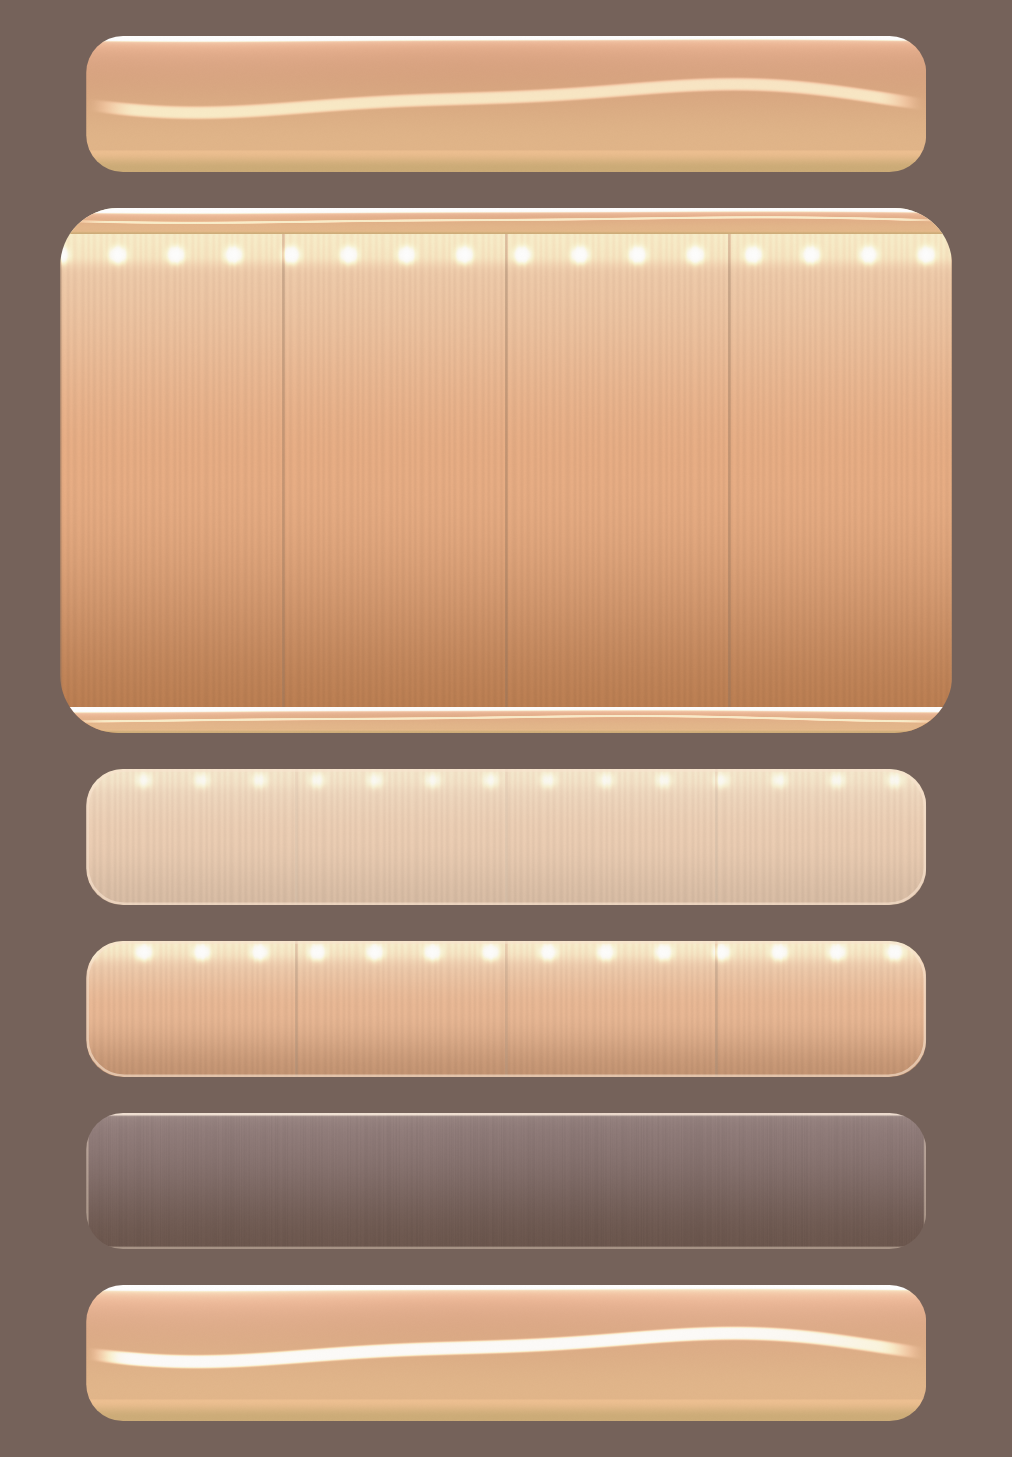
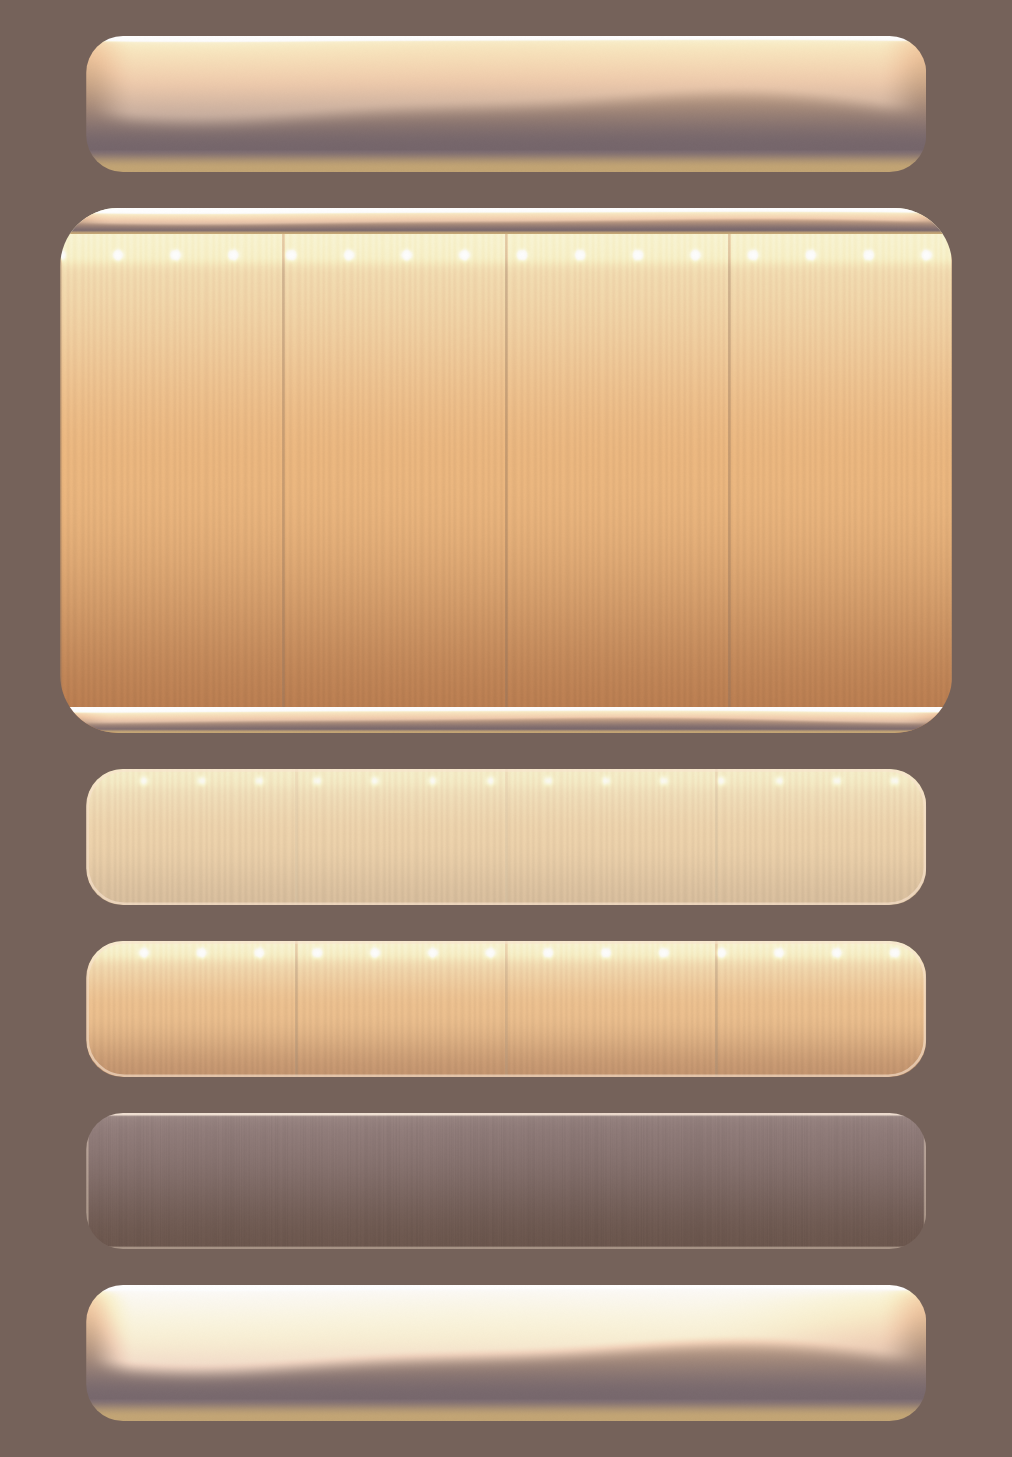
Kinu v2: 背景を外装だけ(帯の重なりとサテンの面)に、金の帯のグラデーション・窓の色を見本に寄せる
Claude-Session: https://claude.ai/code/session_01EQFTQg9fP95wRPnruyYC8J

Changed region(s): [[0.0613, 0.0, 0.919, 0.1853], [0.0613, 0.8648, 0.919, 0.9883], [0.0919, 0.4633, 0.919, 0.5251]]

diff --git a/app/src/main/java/com/example/businesscard/ui/kinu/KinuShaders.kt b/app/src/main/java/com/example/businesscard/ui/kinu/KinuShaders.kt
@@ -33,7 +33,7 @@ const float PI = 3.14159265;
 // ---- 帯の領域(画面の上端・下端から各 16%) ----
 const float ZONE = 0.16;
 const float LAYERS = 4.0;        // 帯の段数(ループは 4 回)
-const float BAND_FRAC = 0.72;    // 帯の高さ / 段の間隔
+const float BAND_FRAC = 0.55;    // 帯の高さ / 段の間隔(残りが窓のすき間)
 const float FADE_IN = 10.0;      // 下の領域の上側のなじみ(dp)
 const float FADE_OUT = 14.0;     // 上の領域の下側のなじみ(dp)
 
@@ -74,13 +74,13 @@ float3 toneMapC(float3 x, float3 C) {
 float edgeAt(float k, float xd, float pitch) {
     return k * pitch
         + 5.5 * sin(2.0 * PI * xd / 360.0 + 1.1 * k + 0.4)
-        + 2.2 * sin(2.0 * PI * xd / 170.0 + 0.7 * k);
+        + 1.6 * sin(2.0 * PI * xd / 200.0 + 0.7 * k);
 }
 
 // 布の帯の面。s は上縁からの深さ(dp、0 以上)。上の縁は光の線に舐められて金、下へ向かって
 // 陰の面(トープ〜灰紫)へ落ちる。下の縁は foldGold の折り返し。つやは横に伸びる緩い波。
 float3 bandFace(float3 sh, float3 gl, float3 am, float3 fold, float s, float bh, float xd, float kf) {
-    float lit = exp(-s / 7.0);
+    float lit = exp(-s / 4.5);
     float3 litCol = mix(am * 0.9, gl, 0.45);
     float3 face = mix(sh, litCol, 0.12 + 0.88 * lit);
     // つや: 上縁の少し下に、横へ伸びる弱いハイライト(段ごとに位相をずらす)
@@ -119,7 +119,8 @@ half4 main(float2 p) {
     float bh = pitch * BAND_FRAC;    // 帯の高さ(dp)
     float wdp = size.x / dp;
 
-    float3 sh = mix(toLin(facadeShade), toLin(facadeMauve), 0.5);
+    // 陰の面の基調(平均 #75625A 前後): トープ寄りに混ぜ、青を少し抑える
+    float3 sh = mix(toLin(facadeShade), toLin(facadeMauve), 0.6) * float3(1.0, 0.99, 0.84);
     float3 gl = toLin(goldLit);
     float3 am = toLin(amber);
     float3 hi = toLin(amberHi);
@@ -243,8 +244,8 @@ half4 main(float2 p) {
     float amt = line * on * (0.92 + 0.08 * sin(PI2 * 1.5 * u + seed));
 
     // ---- 色(線形へ変換して使う) ----
-    float3 faceMid = toLin(half4(0.8510, 0.6078, 0.4549, 1.0));   // #D99B74
-    float3 faceLit = toLin(goldLit);                              // #EDBE8F(トークン)
+    float3 faceLit = toLin(goldLit);                              // #EDBE8F ピーチ(縁の近く。トークン)
+    float3 faceMauve = toLin(half4(0.4784, 0.4118, 0.4353, 1.0)); // #7A6970 灰紫(縁から離れた陰)
     float3 foldCol = toLin(half4(0.7765, 0.6549, 0.4471, 1.0));   // #C6A772 下の縁の折り返し
     float3 shade = toLin(goldShade);                              // 巻き込みの直下の細い陰だけ
     float3 gloss = toLin(half4(0.9765, 0.8863, 0.8078, 1.0));     // #F9E2CE つやと光の際
@@ -252,7 +253,9 @@ half4 main(float2 p) {
     float3 edgeCol = toLin(half4(0.8275, 0.5882, 0.4353, 1.0));   // #D3966F 光の際の暖色
 
     // ---- 面: 上は #D99B74、下へ #EDBE8F(下からの琥珀の照り返し)。中央がゆるく沈む ----
-    float3 face = mix(faceMid, faceLit, smoothstep(0.1, 0.8, v));
+    // 縁(光の線)の近くはピーチ、縁から離れるほど連続的に灰紫へ落ちる(面の大半は中間〜陰)
+    float dv = clamp(d / H, 0.0, 1.0);
+    float3 face = mix(faceLit, faceMauve, smoothstep(0.03, 0.8, dv));
     face *= 1.0 - 0.04 * sin(3.14159 * clamp((v - 0.05) / 0.9, 0.0, 1.0));
 
     // 下の縁の折り返し: 下 14% ほどが #C6A772 へ。折り返しの境に細い影
@@ -271,10 +274,10 @@ half4 main(float2 p) {
     float tg = touchOn ? exp(-pow((p.x - touch.x) / (size.x * 0.22), 2.0)) : 0.0;
     float vh = 0.46 + 0.09 * sin(PI2 * 1.0 * u + seed) + 0.03 * sin(PI2 * 2.0 * u + seed * 2.1);
     float gdy = (v - vh) * size.y;                     // px
-    float halfW = 0.045 * size.y;                      // 全幅 8%(わずかに広めに取り、縁は鋭く)
-    float streak = exp(-pow(abs(gdy) / halfW, 6.0));   // 縁が鋭く立つ(平らな頂 + 急な裾)
+    // 幅 35%(高さ比)のぼけた明るみ。線ではなく面の光沢
+    float streak = exp(-pow(gdy / (0.0875 * size.y), 2.0));
     float taper = smoothstep(0.0, 0.06, u) * smoothstep(1.0, 0.94, u);
-    base += gloss * streak * taper * (0.7 + 1.0 * tg) * 0.75;
+    base += gloss * streak * taper * (0.35 + 0.5 * tg) * 0.75;
 
     // ---- 光の線: 芯 1.2dp(半幅 0.6)・上へのにじみ 3dp・下の面を舐める 30% の高さまで ----
     float core = exp(-pow(d / 0.6, 2.0));
@@ -338,18 +341,20 @@ half4 main(float2 p) {
     float xd = p.x / dp;                       // x を dp 単位で
 
     // ---- 琥珀の面: 上 #F1CFAF(クリーム)→ 中 #E7AD84 → 奥 #BA7D50(線形の値はトークンから) ----
-    float3 hi = toLin(amberHi);
-    float3 mid = toLin(amber);
-    float3 deep = toLin(amberDeep);
+    // 黄みのある温かいクリーム〜琥珀。内側から光る(上ほど明るい)
+    float3 hi = toLin(half4(0.9647, 0.8667, 0.7059, 1.0));    // #F6DDB4 上
+    float3 mid = toLin(half4(0.9137, 0.7098, 0.4941, 1.0));   // #E9B57E 中
+    float3 deep = toLin(half4(0.7294, 0.4902, 0.3137, 1.0));  // #BA7D50 下の奥
     float3 col = mix(hi, mid, smoothstep(0.0, 0.5, v));
     col = mix(col, deep, smoothstep(0.5, 1.0, v));
+    col *= 1.0 + 0.06 * (1.0 - v);
 
     // ---- 天井の灯り: 上 9% に点光源を横に並べる。HDR で白を少し超える ----
     float ceilY = 0.09 * size.y;
     float cellX = 22.0 * dp;
     float dx = (fract(p.x / cellX + 0.5) - 0.5) * cellX;
     float dyc = p.y - ceilY;
-    float lamp = exp(-(dx * dx + dyc * dyc) / (2.6 * dp * 2.6 * dp));
+    float lamp = exp(-(dx * dx + dyc * dyc) / (1.56 * dp * 1.56 * dp));   // 半径は 6 割
     float ceilBand = exp(-pow(dyc / (4.0 * dp), 2.0)) * 0.35;
     col += toLin(half4(1.0, 0.95, 0.80, 1.0)) * (lamp * 1.9 + ceilBand * 0.8) * (1.0 - smoothstep(0.0, 0.3, v));
 
@@ -365,7 +370,7 @@ half4 main(float2 p) {
 
     // ---- 灯りの強さ: glow 0 は落ち着いたクリームのガラス、1 は琥珀 ----
     // 入力欄の glow 0.35 は、クリームがほぼ勝つ(琥珀は薄く混ざる)
-    float3 cream = toLin(half4(0.9569, 0.8863, 0.8000, 1.0));     // #F4E2CC
+    float3 cream = toLin(half4(0.9647, 0.9020, 0.7686, 1.0));     // #F6E6C4 黄みのクリーム
     float3 rest = cream * (1.0 - 0.12 * v);
     float3 lin = mix(rest, col, clamp(glow, 0.0, 1.0));
 
